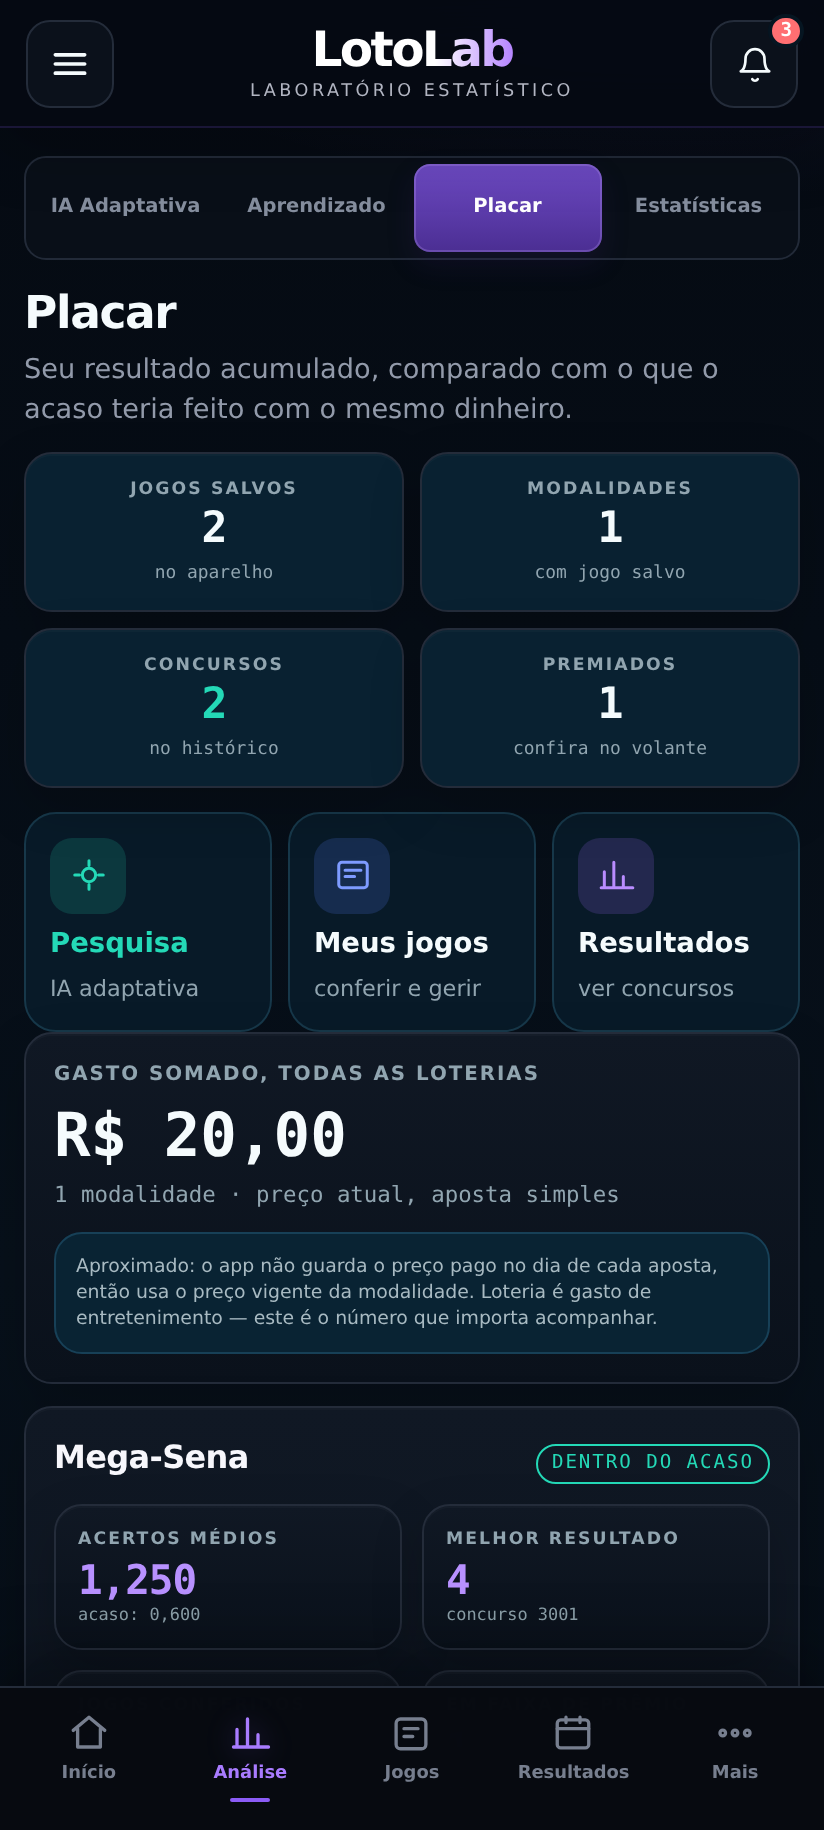
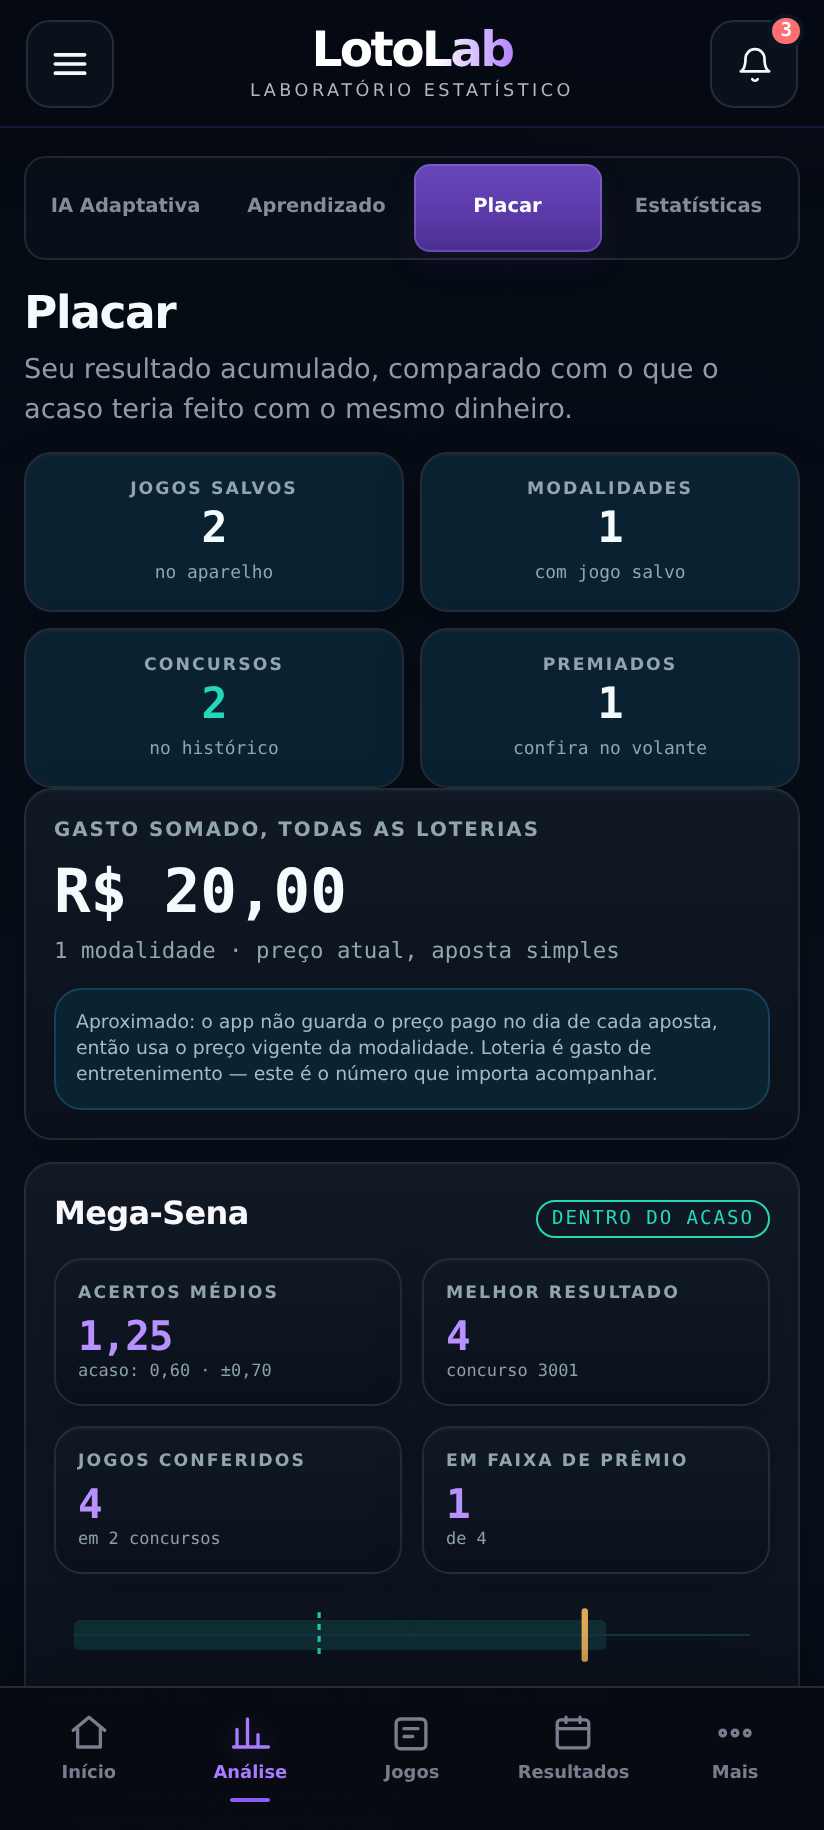
melhora(placar): mostra o caminho, e a bateria para de medir o navegador errado
PLACAR

A tela mostrava só o agregado: uma média, uma faixa, um melhor resultado. Com
sessenta concursos conferidos isso joga fora a informação mais útil que existe
ali — o CAMINHO. Uma média dentro da faixa pode ser um resultado que oscilou e
assentou, ou um que está saindo agora; o número final é o mesmo nos dois casos.

Entra um gráfico da média ACUMULADA contra a linha do acaso, com a faixa de
dois erros padrão em volta. A faixa ESTREITA conforme as conferências somam —
é a forma visual do que a estatística diz, e é o que ensina por que "tive sorte
nas três primeiras" não é resultado nenhum. Abaixo de oito conferências ele não
desenha e explica por quê: faixa larga demais sugeriria precisão que não
existe.

Duas correções menores na mesma tela. A média saía com três casas decimais
("8,970") quando o erro padrão vive na primeira — terceiro dígito é ruído
impresso com ar de medida; agora são duas casas com a incerteza ao lado
("8,97 · acaso 9,00 ± 0,14"). E os atalhos de navegação saíram do topo: numa
tela chamada Placar, eram onze linhas antes do primeiro número do placar. Eles
continuam existindo, no fim, onde servem de saída e não de entrada.

A BATERIA ESTAVA MEDINDO O NAVEGADOR DA EXECUÇÃO ANTERIOR

Isto apareceu porque quebrei o manifesto de propósito para conferir que o teste
acusava, restaurei o arquivo, e a bateria seguinte continuou reprovando com o
conteúdo quebrado. O servidor entregava o arquivo bom; o navegador entregava o
do cache dele.
[…]

Changed region(s): [[0.0607, 0.4361, 0.9709, 0.9033], [0.9102, 0.5607, 0.9405, 0.5918], [0.4551, 0.623, 0.4854, 0.6541]]

diff --git a/index.html b/index.html
@@ -2314,9 +2314,13 @@ function blocoDaModalidade(codigo, conf){
       <span class="selo ${dentro?"ok":"seu"}">${dentro?"dentro do acaso":"fora da faixa"}</span>
     </div>
     <div class="kpis">
+      ${/* Duas casas, e a incerteza ao lado. Três casas numa média de acertos
+            é precisão que o dado não tem: com estas conferências o erro padrão
+            fica na primeira casa decimal, então o terceiro dígito é ruído
+            impresso com ar de medida. */""}
       <div class="kpi"><div class="rot">acertos médios</div>
-        <div class="val">${nf(media,3)}</div>
-        <div class="sub">acaso: ${nf(esperado,3)}</div></div>
+        <div class="val">${nf(media,2)}</div>
+        <div class="sub">acaso: ${nf(esperado,2)} · ±${nf(2*Math.max(dp,1e-9),2)}</div></div>
       <div class="kpi"><div class="rot">melhor resultado</div>
         <div class="val">${melhor.acertos}</div>
         <div class="sub">concurso ${esc(melhor.concurso)}</div></div>
@@ -2328,6 +2332,7 @@ ${/*<aposta>*/""}      <div class="kpi"><div class="rot">em faixa de prêmio</di
         <div class="sub">de ${inf(total)}</div></div>${/*</aposta>*/""}
     </div>
     ${faixaAcaso(media, esperado, Math.max(dp,0.02))}
+    ${convergenciaDoPlacar(conf, codigo)}
     <div class="nota ${dentro?"":"atencao"}">
       ${dentro
         ? `Dentro da faixa do acaso nesta modalidade. É o resultado esperado: num sorteio honesto nenhum método muda essa média.`
@@ -2504,10 +2509,100 @@ T.placar = () => {
   /* Resumo e atalhos no topo: é a primeira coisa que a pessoa quer saber ao
      abrir a análise, e antes ela precisava rolar até achar. */
 /*</aposta>*/
-  return resumoGeral() + atalhos() + cabeca + /*<aposta>*/totalGasto +/*</aposta>*/
+  /* O placar vem ANTES dos atalhos. Numa tela chamada Placar, abrir com três
+     botões de navegação e o resumo genérico empurra o resultado para baixo da
+     dobra: eram onze linhas antes do primeiro número do placar. Os atalhos
+     continuam existindo, no fim, onde servem de saída e não de entrada. */
+  return resumoGeral() + cabeca + /*<aposta>*/totalGasto +/*</aposta>*/
     codigos.sort((a,b)=> porModalidade[b].length - porModalidade[a].length)
-      .map(k => blocoDaModalidade(k, porModalidade[k])).join("");
+      .map(k => blocoDaModalidade(k, porModalidade[k])).join("") +
+    atalhos();
 };
+
+/* Como o desempenho se comportou ao longo dos concursos.
+
+   O Placar mostrava só o agregado: uma média, uma faixa, um melhor resultado.
+   Com sessenta concursos de histórico isso joga fora a informação mais útil
+   que existe ali — o CAMINHO. Uma média dentro da faixa pode ser um resultado
+   que oscilou e assentou, ou um que está saindo agora; o número final é o
+   mesmo nos dois casos.
+
+   O gráfico desenha a média ACUMULADA contra a linha do acaso, e a faixa de
+   dois erros padrão em volta dela. A faixa ESTREITA conforme os concursos
+   somam — é a forma visual do que a estatística diz: no começo qualquer coisa
+   cabe, e só com volume a diferença começa a significar algo.
+
+   Quem olha aprende sozinho por que "eu tive sorte nos três primeiros" não é
+   um resultado: nos três primeiros a faixa é larga demais para acusar nada. */
+function convergenciaDoPlacar(conf, codigo){
+  const ordenadas = conf.slice().sort((a,b) => Number(a.concurso) - Number(b.concurso));
+  if(ordenadas.length < 8) return `<div class="nota">O caminho aparece a partir de
+    oito conferências — com menos, a faixa do acaso é larga demais para mostrar
+    qualquer coisa, e desenhá-la sugeriria precisão que não existe.</div>`;
+
+  let somaAcertos = 0, somaEsperado = 0, somaVar = 0;
+  const pontos = ordenadas.map((cf, i) => {
+    somaAcertos += cf.acertos;
+    somaEsperado += esperadoAcertos(codigo, cf.tamanho);
+    somaVar += desvioAcertos(codigo, cf.tamanho) ** 2;
+    const n = i + 1;
+    return {n, media: somaAcertos/n, esperado: somaEsperado/n, ep: Math.sqrt(somaVar)/n};
+  });
+
+  /* A escala cobre a faixa mais larga — a do começo — para a linha nunca sair
+     do quadro. Um gráfico que corta o próprio dado mente por omissão. */
+  const baixo = Math.min(...pontos.map(p => Math.min(p.media, p.esperado - 2*p.ep)));
+  const alto  = Math.max(...pontos.map(p => Math.max(p.media, p.esperado + 2*p.ep)));
+  const folga = Math.max((alto - baixo) * 0.08, 0.05);
+  const lo = baixo - folga, hi = alto + folga;
+
+  const L = 300, A = 140, mx = 30, my = 12;
+  const px = i => mx + (L - mx - 8) * (pontos.length === 1 ? 0 : i / (pontos.length - 1));
+  const py = v => my + (A - my*2) * (1 - (v - lo) / (hi - lo));
+
+  const cima = pontos.map((p,i)=>`${i?"L":"M"}${px(i).toFixed(1)},${py(p.esperado + 2*p.ep).toFixed(1)}`).join("");
+  const baixoP = pontos.slice().reverse()
+    .map((p,i)=>`L${px(pontos.length-1-i).toFixed(1)},${py(p.esperado - 2*p.ep).toFixed(1)}`).join("");
+  const faixa = cima + baixoP + "Z";
+  const linhaAcaso = pontos.map((p,i)=>`${i?"L":"M"}${px(i).toFixed(1)},${py(p.esperado).toFixed(1)}`).join("");
+  const linhaVoce = pontos.map((p,i)=>`${i?"L":"M"}${px(i).toFixed(1)},${py(p.media).toFixed(1)}`).join("");
+
+  const fim = pontos[pontos.length-1];
+  const dentro = Math.abs(fim.media - fim.esperado) <= 2 * fim.ep;
+  /* Quantas vezes a média acumulada saiu da faixa depois que ela já era
+     estreita o bastante para significar algo. */
+  const saidas = pontos.filter((p,i) => i >= 7 && Math.abs(p.media - p.esperado) > 2 * p.ep).length;
+
+  return `<div class="carta" style="margin-top:10px">
+    <h2>o caminho até aqui</h2>
+    <p style="font-size:.8rem;color:var(--secundaria);margin:4px 0 8px">
+      Média acumulada de acertos, concurso a concurso, contra o que o acaso
+      produziria. A faixa estreita conforme as conferências somam.</p>
+    <svg viewBox="0 0 ${L} ${A}" width="100%" height="${A}" role="img"
+      aria-label="Média acumulada de acertos ao longo de ${pontos.length} conferências, comparada com o acaso">
+      <path d="${faixa}" fill="var(--acaso)" fill-opacity=".13"/>
+      <path d="${linhaAcaso}" fill="none" stroke="var(--acaso)" stroke-width="1.4"
+        stroke-dasharray="4 3" opacity=".85"/>
+      <path d="${linhaVoce}" fill="none" stroke="var(--seu)" stroke-width="2"
+        stroke-linejoin="round" stroke-linecap="round"/>
+      <text x="2" y="${(py(hi)+9).toFixed(1)}" font-size="8" fill="var(--secundaria)"
+        font-family="var(--mono)">${nf(hi,1)}</text>
+      <text x="2" y="${py(lo).toFixed(1)}" font-size="8" fill="var(--secundaria)"
+        font-family="var(--mono)">${nf(lo,1)}</text>
+    </svg>
+    <div class="escala"><span>1ª conferência</span><span>${inf(pontos.length)}ª</span></div>
+    <div class="nota ${dentro ? "" : "atencao"}" style="margin-bottom:0">
+      ${dentro
+        ? `A linha do seu resultado passou o percurso inteiro dentro da faixa do
+           acaso${saidas ? `, com ${saidas} ponto${saidas===1?"":"s"} fora ao longo do caminho` : ""}.
+           É o que um sorteio honesto produz: oscila no começo, quando a faixa é
+           larga, e se aproxima da linha conforme as conferências somam.`
+        : `A média acumulada terminou fora da faixa do acaso. Com poucas
+           conferências isso acontece por variação comum — a faixa só fica
+           estreita com volume, e é ela que decide o que significa algo.`}
+    </div>
+  </div>`;
+}
 
 T.bancada = () => {
   const c = MODALIDADES[S.modalidade];

diff --git a/www/index.html b/www/index.html
@@ -2314,9 +2314,13 @@ function blocoDaModalidade(codigo, conf){
       <span class="selo ${dentro?"ok":"seu"}">${dentro?"dentro do acaso":"fora da faixa"}</span>
     </div>
     <div class="kpis">
+      ${/* Duas casas, e a incerteza ao lado. Três casas numa média de acertos
+            é precisão que o dado não tem: com estas conferências o erro padrão
+            fica na primeira casa decimal, então o terceiro dígito é ruído
+            impresso com ar de medida. */""}
       <div class="kpi"><div class="rot">acertos médios</div>
-        <div class="val">${nf(media,3)}</div>
-        <div class="sub">acaso: ${nf(esperado,3)}</div></div>
+        <div class="val">${nf(media,2)}</div>
+        <div class="sub">acaso: ${nf(esperado,2)} · ±${nf(2*Math.max(dp,1e-9),2)}</div></div>
       <div class="kpi"><div class="rot">melhor resultado</div>
         <div class="val">${melhor.acertos}</div>
         <div class="sub">concurso ${esc(melhor.concurso)}</div></div>
@@ -2328,6 +2332,7 @@ ${/*<aposta>*/""}      <div class="kpi"><div class="rot">em faixa de prêmio</di
         <div class="sub">de ${inf(total)}</div></div>${/*</aposta>*/""}
     </div>
     ${faixaAcaso(media, esperado, Math.max(dp,0.02))}
+    ${convergenciaDoPlacar(conf, codigo)}
     <div class="nota ${dentro?"":"atencao"}">
       ${dentro
         ? `Dentro da faixa do acaso nesta modalidade. É o resultado esperado: num sorteio honesto nenhum método muda essa média.`
@@ -2504,10 +2509,100 @@ T.placar = () => {
   /* Resumo e atalhos no topo: é a primeira coisa que a pessoa quer saber ao
      abrir a análise, e antes ela precisava rolar até achar. */
 /*</aposta>*/
-  return resumoGeral() + atalhos() + cabeca + /*<aposta>*/totalGasto +/*</aposta>*/
+  /* O placar vem ANTES dos atalhos. Numa tela chamada Placar, abrir com três
+     botões de navegação e o resumo genérico empurra o resultado para baixo da
+     dobra: eram onze linhas antes do primeiro número do placar. Os atalhos
+     continuam existindo, no fim, onde servem de saída e não de entrada. */
+  return resumoGeral() + cabeca + /*<aposta>*/totalGasto +/*</aposta>*/
     codigos.sort((a,b)=> porModalidade[b].length - porModalidade[a].length)
-      .map(k => blocoDaModalidade(k, porModalidade[k])).join("");
+      .map(k => blocoDaModalidade(k, porModalidade[k])).join("") +
+    atalhos();
 };
+
+/* Como o desempenho se comportou ao longo dos concursos.
+
+   O Placar mostrava só o agregado: uma média, uma faixa, um melhor resultado.
+   Com sessenta concursos de histórico isso joga fora a informação mais útil
+   que existe ali — o CAMINHO. Uma média dentro da faixa pode ser um resultado
+   que oscilou e assentou, ou um que está saindo agora; o número final é o
+   mesmo nos dois casos.
+
+   O gráfico desenha a média ACUMULADA contra a linha do acaso, e a faixa de
+   dois erros padrão em volta dela. A faixa ESTREITA conforme os concursos
+   somam — é a forma visual do que a estatística diz: no começo qualquer coisa
+   cabe, e só com volume a diferença começa a significar algo.
+
+   Quem olha aprende sozinho por que "eu tive sorte nos três primeiros" não é
+   um resultado: nos três primeiros a faixa é larga demais para acusar nada. */
+function convergenciaDoPlacar(conf, codigo){
+  const ordenadas = conf.slice().sort((a,b) => Number(a.concurso) - Number(b.concurso));
+  if(ordenadas.length < 8) return `<div class="nota">O caminho aparece a partir de
+    oito conferências — com menos, a faixa do acaso é larga demais para mostrar
+    qualquer coisa, e desenhá-la sugeriria precisão que não existe.</div>`;
+
+  let somaAcertos = 0, somaEsperado = 0, somaVar = 0;
+  const pontos = ordenadas.map((cf, i) => {
+    somaAcertos += cf.acertos;
+    somaEsperado += esperadoAcertos(codigo, cf.tamanho);
+    somaVar += desvioAcertos(codigo, cf.tamanho) ** 2;
+    const n = i + 1;
+    return {n, media: somaAcertos/n, esperado: somaEsperado/n, ep: Math.sqrt(somaVar)/n};
+  });
+
+  /* A escala cobre a faixa mais larga — a do começo — para a linha nunca sair
+     do quadro. Um gráfico que corta o próprio dado mente por omissão. */
+  const baixo = Math.min(...pontos.map(p => Math.min(p.media, p.esperado - 2*p.ep)));
+  const alto  = Math.max(...pontos.map(p => Math.max(p.media, p.esperado + 2*p.ep)));
+  const folga = Math.max((alto - baixo) * 0.08, 0.05);
+  const lo = baixo - folga, hi = alto + folga;
+
+  const L = 300, A = 140, mx = 30, my = 12;
+  const px = i => mx + (L - mx - 8) * (pontos.length === 1 ? 0 : i / (pontos.length - 1));
+  const py = v => my + (A - my*2) * (1 - (v - lo) / (hi - lo));
+
+  const cima = pontos.map((p,i)=>`${i?"L":"M"}${px(i).toFixed(1)},${py(p.esperado + 2*p.ep).toFixed(1)}`).join("");
+  const baixoP = pontos.slice().reverse()
+    .map((p,i)=>`L${px(pontos.length-1-i).toFixed(1)},${py(p.esperado - 2*p.ep).toFixed(1)}`).join("");
+  const faixa = cima + baixoP + "Z";
+  const linhaAcaso = pontos.map((p,i)=>`${i?"L":"M"}${px(i).toFixed(1)},${py(p.esperado).toFixed(1)}`).join("");
+  const linhaVoce = pontos.map((p,i)=>`${i?"L":"M"}${px(i).toFixed(1)},${py(p.media).toFixed(1)}`).join("");
+
+  const fim = pontos[pontos.length-1];
+  const dentro = Math.abs(fim.media - fim.esperado) <= 2 * fim.ep;
+  /* Quantas vezes a média acumulada saiu da faixa depois que ela já era
+     estreita o bastante para significar algo. */
+  const saidas = pontos.filter((p,i) => i >= 7 && Math.abs(p.media - p.esperado) > 2 * p.ep).length;
+
+  return `<div class="carta" style="margin-top:10px">
+    <h2>o caminho até aqui</h2>
+    <p style="font-size:.8rem;color:var(--secundaria);margin:4px 0 8px">
+      Média acumulada de acertos, concurso a concurso, contra o que o acaso
+      produziria. A faixa estreita conforme as conferências somam.</p>
+    <svg viewBox="0 0 ${L} ${A}" width="100%" height="${A}" role="img"
+      aria-label="Média acumulada de acertos ao longo de ${pontos.length} conferências, comparada com o acaso">
+      <path d="${faixa}" fill="var(--acaso)" fill-opacity=".13"/>
+      <path d="${linhaAcaso}" fill="none" stroke="var(--acaso)" stroke-width="1.4"
+        stroke-dasharray="4 3" opacity=".85"/>
+      <path d="${linhaVoce}" fill="none" stroke="var(--seu)" stroke-width="2"
+        stroke-linejoin="round" stroke-linecap="round"/>
+      <text x="2" y="${(py(hi)+9).toFixed(1)}" font-size="8" fill="var(--secundaria)"
+        font-family="var(--mono)">${nf(hi,1)}</text>
+      <text x="2" y="${py(lo).toFixed(1)}" font-size="8" fill="var(--secundaria)"
+        font-family="var(--mono)">${nf(lo,1)}</text>
+    </svg>
+    <div class="escala"><span>1ª conferência</span><span>${inf(pontos.length)}ª</span></div>
+    <div class="nota ${dentro ? "" : "atencao"}" style="margin-bottom:0">
+      ${dentro
+        ? `A linha do seu resultado passou o percurso inteiro dentro da faixa do
+           acaso${saidas ? `, com ${saidas} ponto${saidas===1?"":"s"} fora ao longo do caminho` : ""}.
+           É o que um sorteio honesto produz: oscila no começo, quando a faixa é
+           larga, e se aproxima da linha conforme as conferências somam.`
+        : `A média acumulada terminou fora da faixa do acaso. Com poucas
+           conferências isso acontece por variação comum — a faixa só fica
+           estreita com volume, e é ela que decide o que significa algo.`}
+    </div>
+  </div>`;
+}
 
 T.bancada = () => {
   const c = MODALIDADES[S.modalidade];
